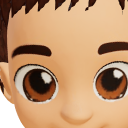
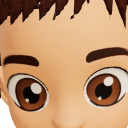
3D-forsøg: iris i store øjne tegnet forfra
Iris, pupil og lysglimt tegnes rent i stedet for at forstørre det gamle billede, og det nederste låg tegnes som en ren streg - glat også på en stor skærm.

diff --git a/3d-forsoeg/index.html b/3d-forsoeg/index.html
@@ -340,7 +340,14 @@ function setupEyeShapes(place, inside) {
     for (const [p, [X, Y]] of place) if (Math.sign(X) === side && white(p) && inside.has(p)) { const d = Math.hypot(X - icx, Y - icy);
       if (d > .9 * r && d < 2 * r) { const b = Math.floor((Math.atan2(Y - icy, X - icx) / Math.PI + 1) / 2 * 24) % 24; near[b] = Math.min(near[b], d); } }
     const ws = [...near].filter(d => d < 9);
+    // (the pupil's light: the white inside the iris - where it sits, and how big)
+    const hl = [0, 0, 0, 0];
+    for (const [p, [X, Y]] of place) if (Math.sign(X) === side && white(p) && inside.has(p) && Math.hypot(X - icx, Y - icy) < .75 * r) { hl[0] += X - icx; hl[1] += Y - icy; hl[3]++; }
+    if (hl[3]) { hl[0] /= hl[3]; hl[1] /= hl[3];
+      for (const [p, [X, Y]] of place) if (Math.sign(X) === side && white(p) && inside.has(p) && Math.hypot(X - icx, Y - icy) < .75 * r) hl[2] += (X - icx - hl[0]) ** 2 + (Y - icy - hl[1]) ** 2;
+      hl[2] = Math.sqrt(2 * hl[2] / hl[3]); }
     eyes.push({ side, cx, cy: (y0 + y1) / 2, ew, eh: (y1 - y0) / 2, ix: icx, iy: icy, r, R: ws.length > 5 ? pct(ws, .5) : 1.15 * r, top,
+      light: hl[3] ? { x: hl[0], y: hl[1], r: hl[2] } : { x: .3 * r, y: .3 * r, r: .2 * r },
       white: { r: wh[0] / wh[3], g: wh[1] / wh[3], b: wh[2] / wh[3] },
       colour: { r: rgb[0] / ix.length, g: rgb[1] / ix.length, b: rgb[2] / ix.length } }); }
   // (the zone's texels, and for each: its eye, the skin's light round it, and whether it is in the eye's opening - the
@@ -406,9 +413,20 @@ function drawEyes(o) {
       const re = Math.hypot((sx - E.cx) / E.ew, (sy - E.cy) / E.eh), sm = v => Math.max(0, Math.min(1, v / .03 + .5));
       if (re < 1.02) { const g = opts.big * opts.iris2, icx = E.cx + (E.ix - E.cx) * opts.big, icy = E.cy + (E.iy - E.cy) * opts.big, dI = Math.hypot(X - icx, Y - icy) / (E.R * g);
         const keep = sm(.99 - re); if (dI < 1.6 && keep > 0) {
-          if (dI < 1.05) { const c = sample(E, E.ix + (X - icx) / g, E.iy + (Y - icy) / g, false); if (c) put(i, c, 1, keep * sm(1 - dI)); }
-          const irisC = tex.colours[PARTS.eyes] || E.colour, ringC = { r: dark.r * .7 + irisC.r * .3, g: dark.g * .7 + irisC.g * .3, b: dark.b * .7 + irisC.b * .3 };
+          // (the iris drawn anew, not blown up - blown up, its edges were ragged on a big screen: the eye colour, darker
+          // towards its edge and lighter at its foot, a round black pupil, and the pupil's light where it was, a
+          // smaller one opposite)
+          const irisC = tex.colours[PARTS.eyes] || E.colour, Rt = E.R * g;
+          if (dI < 1.05) { const uy = (Y - icy) / Rt, L = { x: E.light.x, y: E.light.y, r: 1.8 * E.light.r }, gl = g;
+            put(i, irisC, (.72 + .4 * (1 - dI)) * (1 + .35 * Math.max(0, -uy)), keep * sm(1 - dI));
+            put(i, dark, .6, keep * sm(.48 - dI));
+            put(i, E.white, 1, keep * sm((L.r * gl - Math.hypot(X - icx - L.x * gl, Y - icy - L.y * gl)) / Rt));
+            put(i, E.white, 1, .85 * keep * sm((.35 * L.r * gl - Math.hypot(X - icx + .8 * L.x * gl, Y - icy + .8 * L.y * gl)) / Rt)); }
+          const ringC = { r: dark.r * .7 + irisC.r * .3, g: dark.g * .7 + irisC.g * .3, b: dark.b * .7 + irisC.b * .3 };
           put(i, ringC, 1, keep * sm(dI - .88) * sm(1 - dI)); put(i, E.white, 1, keep * sm(dI - 1) * sm(1.6 - dI)); } }
+      // (the lower lid's line drawn anew too, along the opening's foot - ragged in the picture where the iris meets it -
+      // fading out towards the corners)
+      if (sy < E.cy) { const u2 = Math.abs(sx - E.cx) / E.ew, band = Math.max(0, Math.min(1, (.9 - u2) / .2)); if (band > 0) put(i, dark, .9, band * sm(re - .97) * sm(1.05 - re)); }
       continue; }
     if (opts.shut && (!opts.one || E.side > 0)) {
       const rr = Math.hypot(dx / (E.ew * 1.2), dy / (E.eh * 1.45)); if (rr < 1.25) put(i, skin, k, Math.min(1, (1.25 - rr) / .2));
